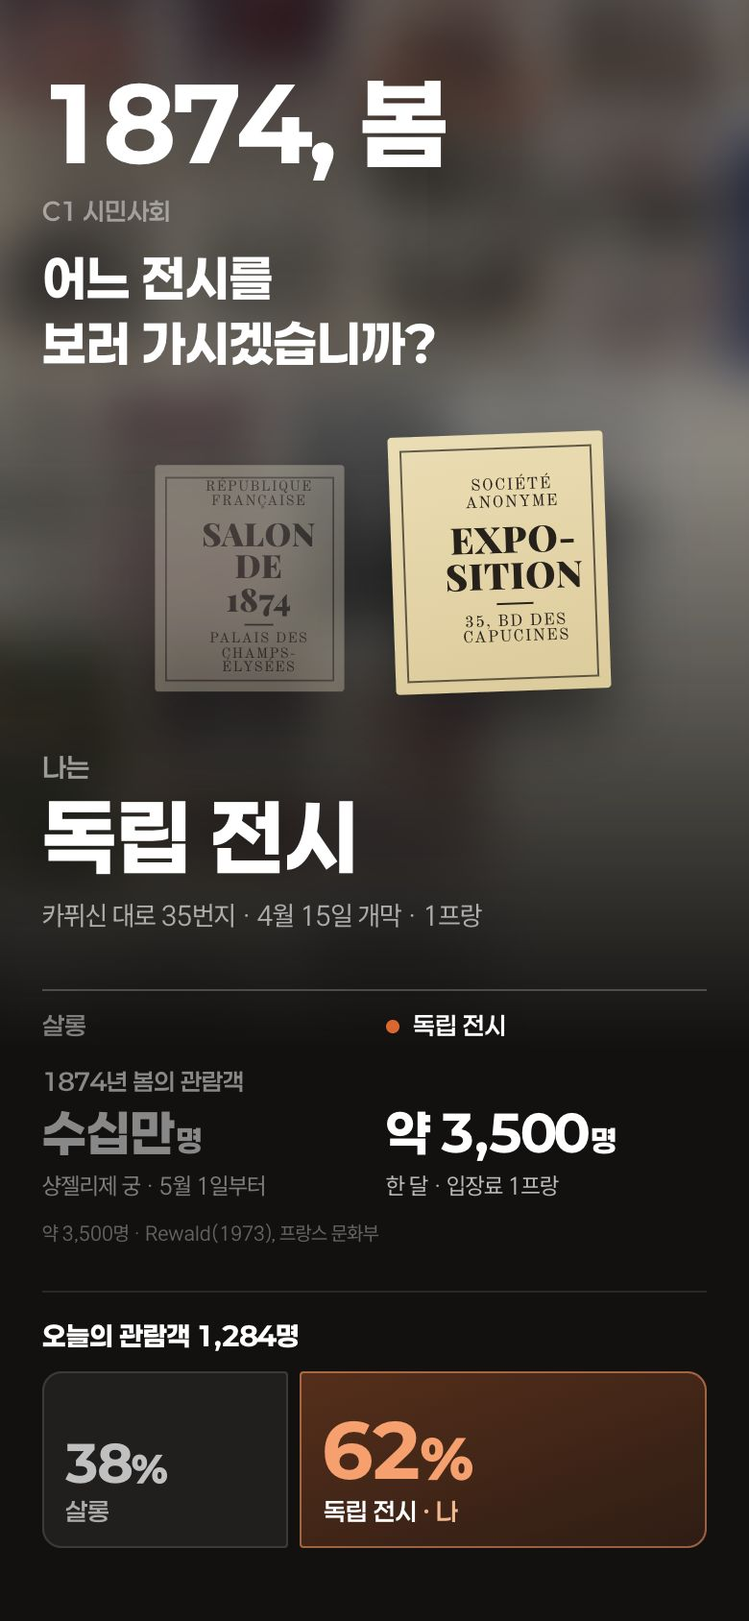
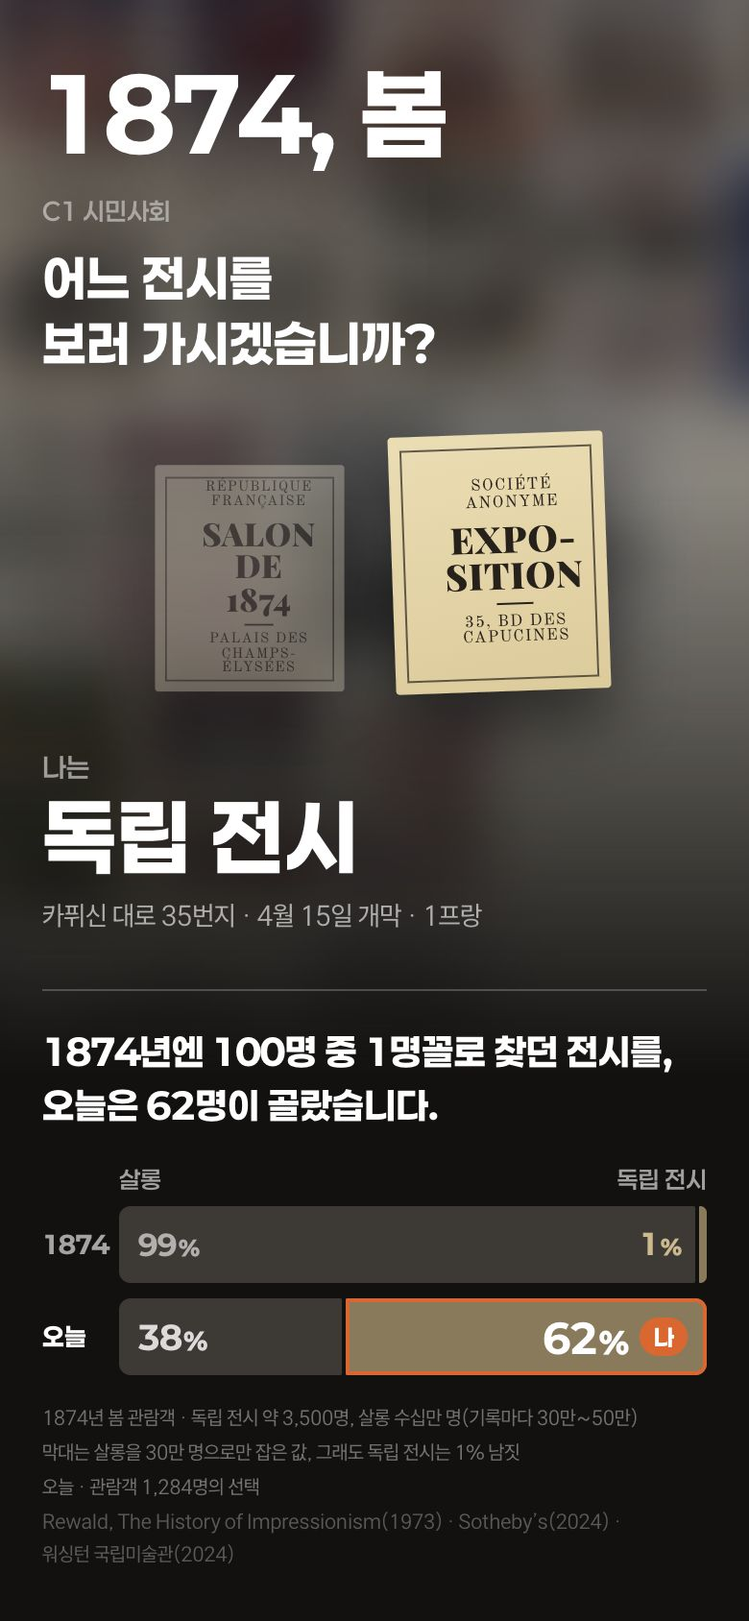
출구 시안 E 큰 선택 비교를 같은 눈금의 가로 막대로: 결론 한 문장(데이터로 만듦, 살롱을 골랐으면 그쪽에서 담담하게) → 1874 · 오늘 두 줄(왼쪽 살롱 · 오른쪽 독립 전시, 순서 같음) → 근거 작은 글자. 내 쪽은 오늘 막대에만 주황 테 + 나, 숫자는 처음부터 최종값
1874 막대는 살롱을 가장 적은 기록 30만 명으로 잡은 값(독립 전시 약 3,500명 → 1% 남짓), 살롱은 기록마다 30만~50만이라 '수십만 명'으로만 적음 · 출처 Rewald(1973) · Sotheby's(2024) · 워싱턴 국립미술관(2024)
C4 는 1874년 수치가 없어 오늘 막대 한 줄만(1874년 4월 사실 두 줄은 아래 그대로) / 공유 이미지도 같은 짜임 / 소개 페이지 '나의 1874' 이미지 다시 찍고 설명 한 줄 고침

diff --git a/design/experience-v2/proto/exit-e.js b/design/experience-v2/proto/exit-e.js
@@ -1,10 +1,12 @@
 // 출구 시안 E — 큰 선택과 작은 선택(라이프 이즈 스트레인지의 에피소드 끝 통계처럼)
 //   큰 선택(가치 판단) 둘 — C1 "어느 전시를 보러 가시겠습니까?"(살롱 / 화가들의 전시) · C4 "사람을 남긴다면, 그림입니까 사진입니까?"(그림으로 / 사진으로) — 를 한 화면씩.
-//     질문 → 그 방의 물건(포스터 둘 · 고른 쪽 얼굴 다섯) → 내 선택 → 같은 칸(선택지)에 맞춘 두 줄: 1874년(출처 있는 사실) · 오늘의 관람객(두 쪽의 폭 = 비율, 내 쪽만 주황). 옳고 그름은 말하지 않는다.
+//     질문 → 그 방의 물건(포스터 둘 · 고른 쪽 얼굴 다섯) → 내 선택 → 결론 한 문장 → 같은 눈금 막대(1874 · 오늘, 내 쪽은 오늘 막대에만 주황 테 + 나) → 근거. 옳고 그름은 말하지 않는다.
 //   출구는 늘 멈춘 화면 — 불 켜기 · 미끄러지는 큰 글자 · 차례로 드러나기 · 숫자 세기 · 벌어지는 막대 · 시차 없이, 모든 내용이 처음부터 그 자리에 있다.
 //   작은 선택(C0 메달 · C2 행선지)은 흰 쟁반 "그 밖에 고른 것"으로 작게. → 가져가는 것 다섯 → 저장·공유(1080×1920, 같은 위계, 위·아래 250px 비움).
 //   "나와 같은 길 %" · 조합 통계는 쓰지 않는다. 선택 · 예시 비율 · localStorage 읽기는 exit-common.js. 오늘의 비율은 점 대신 두 쪽의 폭(= 비율)과 큰 숫자.
-//   1874년 살롱 관람객 수는 출처가 없어 "수십만"으로만 적는다(화가들의 전시 약 3,500명은 Rewald 1973 · 프랑스 문화부).
+//   비교는 같은 눈금의 가로 막대 두 줄(왼쪽 살롱 · 오른쪽 독립 전시, 두 줄 순서 같음): 1874 · 오늘. 위에 결론 한 문장(데이터로 만듦), 아래 근거 작은 글자.
+//     1874 관람객 — 독립 전시 약 3,500명(Rewald 1973, p.318 · Sotheby's 2024 등 같은 값). 살롱은 기록마다 30만(유료 입장) · 40만 · 50만으로 달라
+//     "수십만 명"으로만 적고, 막대는 가장 적은 30만 명으로 잡아 그린다(그래도 독립 전시는 1% 남짓). C4 는 1874년 수치가 없어 오늘 막대 한 줄만.
 import { clearChoices } from './js/proto-common.js';
 import { STATIONS, C1, C4, C4_FACES, VISITORS, POINT, anyReal, fmt, stampLine, posterHTML, setupShare, fontsReady, loadImg, cover, drawArt } from './exit-common.js';
 import { mountKeep } from './exit-keep.js';
@@ -15,16 +17,35 @@ const ex = (s) => (anyReal && !s.real ? ' · 예시' : '');
 const exTag = (s) => (anyReal && !s.real ? '<span class="ex">예시</span>' : '');
 
 // ── 큰 선택 두 장의 내용
+// 1874년 봄 관람객 — 막대는 살롱을 가장 적게 잡은 값(30만 명)으로 그린다
+const SALON_LOW = 300000, EXPO_1874 = 3500;
+const p1874 = { viewer: EXPO_1874 / (SALON_LOW + EXPO_1874) * 100 };
+p1874.jury = 100 - p1874.viewer;
 const MAJOR = [
   { el: '#ch1', st: S.c1, cmp: '#cmp1', me: '#me1', sub: '#sub1', room: '#room1', q: '어느 전시를 보러 가시겠습니까?',
     cols: Object.keys(C1).map((k) => ({ k, lab: C1[k].short })),
-    then: { label: '1874년 봄의 관람객', cells: { jury: { v: '수십만<i>명</i>', d: '샹젤리제 궁 · 5월 1일부터' }, viewer: { v: '약 <span class="cnt" data-to="3500">3,500</span><i>명</i>', d: '한 달 · 입장료 1프랑' } },
-      src: '약 3,500명 · Rewald(1973), 프랑스 문화부' } },
+    then: { yr: '1874', p: p1874, lab: { jury: '99%', viewer: '1%' } },
+    head: (me, o) => (me === 'viewer'
+      ? `1874년엔 100명 중 1명꼴로 찾던 전시를,\n오늘은 ${o.pct}명이 골랐습니다.`
+      : `1874년엔 거의 모두가 찾던 살롱을,\n오늘은 100명 중 ${o.pct}명이 골랐습니다.`),
+    basis: [
+      '1874년 봄 관람객 · 독립 전시 약 3,500명, 살롱 수십만 명(기록마다 30만~50만)',
+      '막대는 살롱을 30만 명으로만 잡은 값, 그래도 독립 전시는 1% 남짓',
+    ],
+    src: 'Rewald, The History of Impressionism(1973) · Sotheby’s(2024) · 워싱턴\u00a0국립미술관(2024)' },
   { el: '#ch2', st: S.c4, cmp: '#cmp2', me: '#me2', sub: '#sub2', room: '#room2', q: '사람을 남긴다면, 그림입니까 사진입니까?',
     cols: Object.keys(C4).map((k) => ({ k, lab: C4[k].full })),
-    then: { label: '1874년 4월', lines: ['나다르는 자기 사진관을 화가들에게 전시장으로 내주었다.', '보들레르는 1859년 살롱평에서 사진 산업을 예술의 “가장 치명적인 적”이라 썼다.'],
+    then: null,                                                     // 1874년 수치 없음 — 오늘 한 줄만
+    head: (me, o, other) => `오늘은 100명 중 ${o.pct}명이 나처럼 ${C4[me].full},\n${other.pct}명이 ${C4[other.k].full} 남기겠다고 했습니다.`,
+    basis: [],
+    note: { label: '1874년 4월', lines: ['나다르는 자기 사진관을 화가들에게 전시장으로 내주었다.', '보들레르는 1859년 살롱평에서 사진 산업을 예술의 “가장 치명적인 적”이라 썼다.'],
       src: 'Wikipedia · Nadar · BnF · Wikisource · Baudelaire, Salon de 1859' } },
 ];
+MAJOR.forEach((m) => {
+  const s = m.st; m.headline = m.head(s.me, s.opt, s.others[0]);
+  m.basis.push(`오늘 · 관람객 ${fmt(VISITORS)}명의 선택`);
+  if (m.src) m.basis.push(m.src);
+});
 
 // 그 방의 물건 — C1: 두 포스터(재현), 내 쪽만 또렷이 · C4: 고른 쪽 얼굴 다섯
 $('#obj1').innerHTML = ['jury', 'viewer'].map((k) => posterHTML(k === 'viewer', S.c1.me === k ? 'me' : '')).join('');
@@ -37,15 +58,25 @@ MAJOR.forEach((m) => {
   $(m.room).innerHTML = s.room + exTag(s);
   $(m.me).textContent = s.choice;
   $(m.sub).textContent = s.sub;
-  const cols = `<div class="xe-cols">${m.cols.map((c) => `<span class="${c.k === s.me ? 'me' : ''}">${c.lab}</span>`).join('')}</div>`;
-  const then = m.then.cells
-    ? `<div class="xe-cells">${m.cols.map((c) => `<div class="xe-cell${c.k === s.me ? ' me' : ''}"><div class="v">${m.then.cells[c.k].v}</div><div class="d">${m.then.cells[c.k].d}</div></div>`).join('')}</div>`
-    : m.then.lines.map((l) => `<p class="xe-then-line">${l}</p>`).join('');
-  // 오늘: 두 쪽(선택지 순서 = 위 칸 순서), 폭 = 비율
-  const now = `<div class="xe-bar">${s.opts.map((o) => `<div class="xb${o.k === s.me ? ' me' : ''}" style="--p:${o.pct}"><b class="xe-pct"><span class="cnt" data-to="${o.pct}">${o.pct}</span><i>%</i></b><small>${m.cols.find((c) => c.k === o.k).lab}</small></div>`).join('')}</div>`;
-  $(m.cmp).innerHTML = `<div class="xe-then rv">${cols}<div class="xe-row"><div class="xe-rl">${m.then.label}</div>${then}<div class="xe-src">${m.then.src}</div></div></div>`
-    + `<div class="xe-row now rv"><div class="xe-rl"><b>오늘의 관람객 <span class="cnt" data-to="${VISITORS}">${fmt(VISITORS)}</span>명</b></div>${now}</div>`;
-  m.nowRow = $(`${m.el} .xe-row.now`);
+  // 같은 눈금의 가로 막대 — 왼쪽 · 오른쪽 순서는 선택지 순서 그대로(두 줄 모두). 내 쪽 표시는 오늘 막대에만
+  const [L, R] = m.cols;
+  const pctTxt = (t) => `<span>${t.replace(/%$/, '<i>%</i>')}</span>`;
+  const seg = (c, p, lab, me) => `<span class="sg ${c === L ? 'l' : 'r'}${me ? ' me' : ''}" style="--p:${p}">${lab ? `<b>${pctTxt(lab)}${me ? '<em>나</em>' : ''}</b>` : ''}</span>`;
+  const row = (yr, segs, cls, aria, tail = '') => `<div class="xe-br ${cls}" role="img" aria-label="${aria}"><span class="yr">${yr}</span><div class="trk">${segs}${tail}</div></div>`;
+  const today = s.opts.map((o) => ({ c: m.cols.find((c) => c.k === o.k), o }));
+  let rows = '';
+  if (m.then) {
+    const t = m.then;
+    // 1874: 오른쪽 몫은 글자가 들어가지 않을 만큼 가늘어, 그 숫자는 가는 띠 바로 왼쪽에 오른쪽 색으로
+    rows += row(t.yr, `${seg(L, t.p[L.k], t.lab[L.k], false)}${seg(R, t.p[R.k], '', false)}`, 'then',
+      `${t.yr}년: ${L.lab} ${t.lab[L.k]}, ${R.lab} ${t.lab[R.k]}`, `<b class="tail">${pctTxt(t.lab[R.k])}</b>`);
+  }
+  rows += row('오늘', today.map(({ c, o }) => seg(c, o.pct, `${o.pct}%`, o.k === s.me)).join(''), 'now' + (m.then ? '' : ' solo'),
+    `오늘: ${today.map(({ c, o }) => `${c.lab} ${o.pct}%${o.k === s.me ? '(나)' : ''}`).join(', ')}`);
+  const note = m.note ? `<div class="xe-note"><div class="xe-rl">${m.note.label}</div>${m.note.lines.map((l) => `<p class="xe-then-line">${l}</p>`).join('')}<div class="xe-src">${m.note.src}</div></div>` : '';
+  $(m.cmp).innerHTML = `<p class="xe-hl">${m.headline.replace('\n', '<br>')}</p>`
+    + `<div class="xe-bars${m.then ? '' : ' solo'}"><div class="xe-heads"><span>${L.lab}</span><span>${R.lab}</span></div>${rows}</div>`
+    + `<ul class="xe-basis">${m.basis.map((b) => `<li>${b}</li>`).join('')}</ul>${note}`;
 });
 
 // ── 작은 선택 — 흰 쟁반의 작은 카드 둘
@@ -78,38 +109,43 @@ async function drawMajor(g, m, i, x, y, W) {
   g.textAlign = 'left';
   g.fillStyle = 'rgba(255,255,255,.5)'; g.font = `600 24px ${D}`; g.fillText(s.room + ex(s), x, y + 24);
   g.fillStyle = '#fff'; g.font = `800 38px ${D}`; g.fillText(m.q, x, y + 80);
-  g.fillStyle = 'rgba(255,255,255,.55)'; g.font = `600 24px ${D}`; g.fillText('나는', x, y + 138);
-  g.fillStyle = '#fff'; g.font = `800 74px ${D}`; g.fillText(s.choice, x - 3, y + 214);
-  let cy = y + 248;
+  g.fillStyle = 'rgba(255,255,255,.55)'; g.font = `600 24px ${D}`; g.fillText('나는', x, y + 132);
+  g.fillStyle = '#fff'; g.font = `800 74px ${D}`; g.fillText(s.choice, x - 3, y + 204);
+  let cy = y + 230;
   g.fillStyle = 'rgba(255,255,255,.22)'; g.fillRect(x, cy, W, 2);
-  const gap = 24, colW = (W - gap) / 2;
-  cy += 40; g.font = `600 26px ${D}`;
-  m.cols.forEach((c, j) => { const cx = x + j * (colW + gap), me = c.k === s.me; if (me) { g.fillStyle = POINT; g.beginPath(); g.arc(cx + 7, cy - 9, 7, 0, 6.2832); g.fill(); } g.fillStyle = me ? '#fff' : 'rgba(255,255,255,.45)'; g.fillText(c.lab, cx + (me ? 24 : 0), cy); });
-  cy += 38; g.fillStyle = 'rgba(255,255,255,.5)'; g.font = `600 22px ${D}`; g.fillText(m.then.label, x, cy);
-  if (m.then.cells) {
-    cy += 50;
-    m.cols.forEach((c, j) => { const cx = x + j * (colW + gap), me = c.k === s.me, cell = m.then.cells[c.k];
-      g.fillStyle = me ? '#fff' : 'rgba(255,255,255,.5)'; g.font = `800 46px ${D}`; g.fillText(cell.v.replace(/<[^>]+>/g, ' ').replace(/ +/g, ' ').replace(/ +명/, '명').replace('수십만 명', '수십만'), cx, cy);
-      g.fillStyle = me ? 'rgba(255,255,255,.7)' : 'rgba(255,255,255,.45)'; g.font = `500 22px ${B}`; g.fillText(cell.d, cx, cy + 34); });
-    cy += 34;
-  } else {
-    g.font = `500 26px ${B}`; g.fillStyle = 'rgba(255,255,255,.86)';
-    wrapKo(g, m.then.lines[0], W).forEach((ln) => { cy += 40; g.fillText(ln, x, cy); });
-  }
-  // 오늘
-  cy += 48; g.fillStyle = '#fff'; g.font = `800 24px ${D}`; g.fillText(`오늘의 관람객 ${fmt(VISITORS)}명`, x, cy);
-  // 두 쪽 — 폭 = 비율(점 없음)
-  const bh = 92, by = cy + 22, g2 = 10; let bx = x;
-  s.opts.forEach((o, j) => {
-    const me = o.k === s.me, w = (W - g2) * o.pct / 100;
-    g.fillStyle = me ? 'rgba(217,103,47,.30)' : 'rgba(255,255,255,.07)'; rrect(g, bx, by, w, bh, 12); g.fill();
-    g.strokeStyle = me ? 'rgba(240,150,100,.7)' : 'rgba(255,255,255,.16)'; g.lineWidth = 2; rrect(g, bx + 1, by + 1, w - 2, bh - 2, 11); g.stroke();
-    g.fillStyle = me ? '#F5A06E' : 'rgba(255,255,255,.72)'; g.font = `800 ${me ? 52 : 38}px ${D}`; g.fillText(`${o.pct}%`, bx + 20, by + bh - 22);
-    const lab = m.cols.find((c) => c.k === o.k).lab + (me ? ' · 나' : ''); g.font = `600 22px ${D}`; const lw = g.measureText(lab).width;
-    if (lw < w - 160) { g.fillStyle = me ? '#fff' : 'rgba(255,255,255,.6)'; g.textAlign = 'right'; g.fillText(lab, bx + w - 18, by + bh - 24); g.textAlign = 'left'; }
-    bx += w + g2;
-  });
-  return cy + 22 + bh;
+  // 결론 한 문장
+  g.fillStyle = '#fff'; g.font = `800 32px ${D}`;
+  m.headline.split('\n').forEach((part) => wrapKo(g, part, W).forEach((ln) => { cy += 46; g.fillText(ln, x, cy); }));
+  // 같은 눈금의 가로 막대 — 화면과 같은 짜임(왼쪽 짙은 회색 · 오른쪽 놋쇠빛, 내 쪽은 오늘 막대에만 주황 테 + 나)
+  const XL = '#3D3934', XR = '#8A7A5C', yw = 92, tx0 = x + yw, tw = W - yw, bh = 56, g2 = 4;
+  cy += 46; g.font = `600 23px ${D}`; g.fillStyle = 'rgba(255,255,255,.6)';
+  const [Lc, Rc] = m.cols;
+  g.fillText(Lc.lab, tx0, cy); g.textAlign = 'right'; g.fillText(Rc.lab, x + W, cy); g.textAlign = 'left';
+  const bar = (yr, parts, then) => {
+    const by = cy + 12;
+    g.fillStyle = then ? 'rgba(255,255,255,.62)' : '#fff'; g.font = `700 25px ${D}`; g.fillText(yr, x, by + bh / 2 + 9);
+    let bx = tx0;
+    parts.forEach((p, j) => {
+      const w = Math.max(5, (tw - g2) * p.p / 100);
+      g.fillStyle = j ? XR : XL; rrect(g, bx, by, w, bh, Math.min(10, w / 2)); g.fill();
+      if (p.me) { g.strokeStyle = POINT; g.lineWidth = 4; rrect(g, bx + 2, by + 2, w - 4, bh - 4, 8); g.stroke(); }
+      if (p.lab) {
+        g.font = `800 ${p.me ? 38 : then ? 28 : 32}px ${D}`; g.fillStyle = p.me ? '#fff' : then ? 'rgba(255,255,255,.6)' : 'rgba(255,255,255,.82)';
+        const tw2 = g.measureText(p.lab).width, tagW = p.me ? 54 : 0, tx = j ? bx + w - 20 - tw2 - tagW : bx + 20;
+        g.fillText(p.lab, tx, by + bh / 2 + 13);
+        if (p.me) { g.fillStyle = POINT; rrect(g, tx + tw2 + 10, by + bh / 2 - 17, 44, 34, 17); g.fill(); g.fillStyle = '#fff'; g.font = `800 22px ${D}`; g.textAlign = 'center'; g.fillText('나', tx + tw2 + 32, by + bh / 2 + 8); g.textAlign = 'left'; }
+      }
+      if (p.tail) { g.font = `800 28px ${D}`; g.fillStyle = '#CDB98F'; g.textAlign = 'right'; g.fillText(p.tail, x + W - 26, by + bh / 2 + 10); g.textAlign = 'left'; }
+      bx += w + g2;
+    });
+    cy = by + bh;
+  };
+  if (m.then) bar(m.then.yr, [{ p: m.then.p[Lc.k], lab: m.then.lab[Lc.k] }, { p: m.then.p[Rc.k], tail: m.then.lab[Rc.k] }], true);
+  bar('오늘', s.opts.map((o) => ({ p: o.pct, lab: `${o.pct}%`, me: o.k === s.me })), false);
+  // 근거 — 작은 글자(오늘 관람객 수는 맨 아래 한 줄에 있으니 뺀다)
+  g.font = `500 20px ${B}`; g.fillStyle = 'rgba(255,255,255,.42)'; cy += 4;
+  m.basis.filter((ln) => !ln.startsWith('오늘 ·')).forEach((ln) => wrapKo(g, ln, W).forEach((l2) => { cy += 28; g.fillText(l2, x, cy); }));
+  return cy;
 }
 async function renderShare() {
   const Wd = 1080, Hd = 1920, c = document.createElement('canvas'); c.width = Wd; c.height = Hd;

diff --git a/design/experience-v2/proto/exit-e.css b/design/experience-v2/proto/exit-e.css
@@ -38,37 +38,17 @@ body.xe h1, body.xe h2, body.xe h3, body.xe .btn { letter-spacing: 0; }
 .xe-me-sub { margin-top: 8px; font-size: 15px; color: rgba(255,255,255,.62); }
 .xe-me-sub .ex { margin-left: 6px; font-size: 12px; color: rgba(255,255,255,.4); }
 
-/* 그때 ↔ 오늘 — 같은 칸(선택지)에 맞춘 두 줄 */
-.xe-cmp { flex: none; margin-top: 30px; }
-.xe-then { border-top: 1px solid rgba(255,255,255,.22); }
-.xe-cols { display: grid; grid-template-columns: 1fr 1fr; gap: 12px; padding: 10px 0 0; font-family: var(--display); font-weight: 600; font-size: 13px; color: rgba(255,255,255,.45); }
-.xe-cols span { display: flex; align-items: center; gap: 7px; white-space: nowrap; overflow: hidden; text-overflow: ellipsis; }
-.xe-cols .me { color: #fff; }
-.xe-cols .me::before { content: ''; flex: none; width: 7px; height: 7px; border-radius: 50%; background: var(--point); }
-.xe-row { padding: 14px 0 0; }
-.xe-rl { display: flex; align-items: baseline; gap: 8px; font-family: var(--display); font-weight: 600; font-size: 12.5px; color: rgba(255,255,255,.5); }
-.xe-rl b { font-weight: 800; font-size: 14px; color: #fff; }
-.xe-rl small { margin-left: auto; font-family: var(--body); font-weight: 500; font-size: 12px; color: rgba(255,255,255,.4); }
-.xe-cells { display: grid; grid-template-columns: 1fr 1fr; gap: 12px; margin-top: 6px; }
-.xe-cell { position: relative; }
-.xe-cell .v { font-family: var(--display); font-weight: 800; font-size: 26px; line-height: 1.1; color: rgba(255,255,255,.5); }
-.xe-cell .v i { font-style: normal; font-size: .6em; margin-left: 1px; }
-.xe-cell .d { margin-top: 4px; font-size: 13px; line-height: 1.4; color: rgba(255,255,255,.45); }
-.xe-cell.me .v { color: #fff; }
-.xe-cell.me .d { color: rgba(255,255,255,.7); }
+/* 1874 ↔ 오늘 — 결론 한 문장 → 같은 눈금의 가로 막대(왼쪽 · 오른쪽 순서는 두 줄 모두 같음) → 근거 작은 글자. 막대 · 숫자는 처음부터 최종값(exit-e-fx.css) */
+.xe-cmp { flex: none; margin-top: 30px; padding-top: 18px; border-top: 1px solid rgba(255,255,255,.22); }
+.xe-hl { margin: 0; font-family: var(--display); font-weight: 800; font-size: 19px; line-height: 1.45; color: #fff; word-break: keep-all; }
+.xe-basis { list-style: none; margin: 14px 0 0; padding: 0; font-size: 11px; line-height: 1.55; color: rgba(255,255,255,.4); word-break: keep-all; }
+.xe-basis li + li { margin-top: 1px; }
+.xe-basis li:last-child:not(:first-child) { color: rgba(255,255,255,.3); }
+.xe-note { margin-top: 22px; padding-top: 14px; border-top: 1px solid rgba(255,255,255,.1); }
+.xe-rl { font-family: var(--display); font-weight: 600; font-size: 12.5px; color: rgba(255,255,255,.5); }
 .xe-then-line { margin: 6px 0 0; font-size: 15px; line-height: 1.55; color: rgba(255,255,255,.86); }
 .xe-then-line + .xe-then-line { color: rgba(255,255,255,.6); }
 .xe-src { margin-top: 8px; font-size: 11px; line-height: 1.4; color: rgba(255,255,255,.34); }
-
-/* 오늘 줄 — 비율 */
-.xe-row.now { margin-top: 22px; border-top: 1px solid rgba(255,255,255,.1); }
-.xe-now { position: relative; margin-top: 6px; height: 96px; }
-.xe-now canvas { position: absolute; inset: 0 0 34px; width: 100%; height: calc(100% - 34px); display: block; }
-.xe-now .xe-cells { position: absolute; left: 0; right: 0; bottom: 0; margin: 0; pointer-events: none; }
-.xe-pct { font-family: var(--display); font-weight: 600; font-size: 17px; line-height: 1; color: rgba(255,255,255,.5); font-variant-numeric: tabular-nums; }
-.xe-pct i { font-style: normal; font-size: .7em; }
-.xe-pct.me { font-weight: 800; font-size: 30px; color: var(--point); }
-.xe-pct.me span { margin-left: 6px; font-size: 13px; font-weight: 600; color: #fff; }
 
 /* ── 작은 선택 · 가져가는 것 — 흰 쟁반(작게) */
 .xe-end { position: relative; padding-top: 28px; display: flex; flex-direction: column; }
@@ -94,6 +74,5 @@ body.xe h1, body.xe h2, body.xe h3, body.xe .btn { letter-spacing: 0; }
   .xe-q { font-size: 22px; }
   .xe-obj { margin-top: 20px; } .xe-obj.posters .x-poster { --s: 92px; } .xe-obj.faces .fc { max-width: 52px; }
   .xe-me { margin-top: 22px; } .xe-me-v { font-size: 36px; }
-  .xe-cmp { margin-top: 22px; }
-  .xe-cell .v { font-size: 22px; }
+  .xe-cmp { margin-top: 22px; } .xe-hl { font-size: 17.5px; }
 }

diff --git a/design/experience-v2/proto/exit-e-fx.css b/design/experience-v2/proto/exit-e-fx.css
@@ -1,4 +1,4 @@
-/* 출구 E 꾸밈 — 큰 선택마다 그 방 물건의 흐린 바탕 · 큰 글자 · 1874 ↔ 오늘의 두 쪽(폭 = 비율, 점 없음).
+/* 출구 E 꾸밈 — 큰 선택마다 그 방 물건의 흐린 바탕 · 큰 글자 · 1874 ↔ 오늘의 같은 눈금 가로 막대.
    출구는 늘 멈춘 화면: 불 켜기 · 미끄러져 들어오는 글자 · 다가오는 바탕 · 벌어지는 막대 · 지나가는 빛 · 시차 · 내려앉는 물건 없이 처음부터 다 보인 모습 그대로 */
 
 /* ── 큰 선택: 그 방 물건의 흐린 바탕 + 큰 글자(제자리) */
@@ -12,16 +12,25 @@
 .xe-big { position: relative; margin: 6px 0 14px -2px; font-family: var(--display); font-weight: 800; font-size: clamp(44px, 13.5vw, 58px); line-height: 1.02; white-space: nowrap; color: #fff; pointer-events: none; }
 .xe-big span { display: inline-block; text-shadow: 0 10px 40px rgba(0,0,0,.6); }
 
-/* ── 1874 ↔ 오늘: 두 쪽, 폭 = 비율 */
-.xe-bar { display: flex; gap: 6px; margin-top: 10px; height: 92px; }
-.xb { position: relative; flex: 0 0 calc(var(--p) * 1% - 3px); min-width: 0; display: flex; flex-direction: column; justify-content: flex-end; gap: 4px; padding: 10px 12px 11px; overflow: hidden;
-  background: rgba(255,255,255,.06); box-shadow: inset 0 0 0 1px rgba(255,255,255,.12); }
-.xb:first-child { border-radius: 10px 2px 2px 10px; } .xb:last-child { border-radius: 2px 10px 10px 2px; }
-.xb.me { background: linear-gradient(160deg, rgba(217,103,47,.34), rgba(217,103,47,.14)); box-shadow: inset 0 0 0 1px rgba(240,150,100,.55); }
-.xb small { font-family: var(--display); font-weight: 600; font-size: 13px; color: rgba(255,255,255,.62); white-space: nowrap; overflow: hidden; text-overflow: ellipsis; }
-.xb.me small { color: #fff; }
-.xb.me small::after { content: ' · 나'; color: #F0B98F; }
-.xb .xe-pct { opacity: 1; font-size: 26px; font-weight: 800; color: rgba(255,255,255,.72); font-variant-numeric: tabular-nums; }
-.xb.me .xe-pct { font-size: 38px; color: #F5A06E; }
-.xe-row.now .xe-rl small { display: none; }
-.xe-cell .v .cnt { font-variant-numeric: tabular-nums; }
+/* ── 1874 ↔ 오늘: 같은 눈금의 가로 막대. 왼쪽 선택지 = 짙은 회색, 오른쪽 = 놋쇠빛(두 줄 같은 색). 내 쪽은 오늘 막대에만 주황 테 + '나' */
+.xe-bars { --yr: 40px; margin-top: 18px; }
+.xe-heads { display: flex; justify-content: space-between; gap: 12px; padding-left: var(--yr); font-family: var(--display); font-weight: 600; font-size: 12.5px; color: rgba(255,255,255,.6); }
+.xe-heads span { white-space: nowrap; }
+.xe-bars { --xl: #3D3934; --xr: #8A7A5C; }
+.xe-br { display: grid; grid-template-columns: var(--yr) 1fr; align-items: center; margin-top: 8px; }
+.xe-heads + .xe-br { margin-top: 7px; }
+.xe-br .yr { font-family: var(--display); font-weight: 700; font-size: 13px; color: rgba(255,255,255,.62); font-variant-numeric: tabular-nums; }
+.xe-br.now .yr { color: #fff; }
+.trk { position: relative; display: flex; gap: 2px; height: 40px; }
+.sg { flex: 0 0 calc((100% - 2px) * var(--p) / 100); min-width: 3px; display: flex; align-items: center; padding: 0 10px; overflow: hidden; white-space: nowrap; background: var(--xl); }
+.sg.l { border-radius: 6px 1px 1px 6px; justify-content: flex-start; }
+.sg.r { border-radius: 1px 6px 6px 1px; justify-content: flex-end; background: var(--xr); }
+.sg b, .trk .tail { display: inline-flex; align-items: center; gap: 6px; font-family: var(--display); font-weight: 800; font-size: 17px; line-height: 1; color: rgba(255,255,255,.82); font-variant-numeric: tabular-nums; }
+.sg b i, .trk .tail i { font-style: normal; font-size: .72em; margin-left: 1px; }
+.sg b span, .trk .tail span { white-space: nowrap; }
+.xe-br.then .sg b { font-size: 15px; color: rgba(255,255,255,.6); }
+.xe-br.then .sg.r { padding: 0; }
+.trk .tail { position: absolute; right: 13px; top: 50%; transform: translateY(-50%); font-size: 15px; color: #CDB98F; }
+.sg.me { box-shadow: inset 0 0 0 2px var(--point); }
+.sg.me b { font-size: 21px; color: #fff; }
+.sg.me em { font-style: normal; display: inline-grid; place-items: center; height: 20px; padding: 0 7px; border-radius: 10px; background: var(--point); font-family: var(--display); font-weight: 800; font-size: 12px; color: #fff; }

diff --git a/design/experience-v2/proto/exit-e.html b/design/experience-v2/proto/exit-e.html
@@ -17,7 +17,7 @@
 <body class="xe">
 
 <!-- 출구 시안 E — 큰 선택(가치 판단)과 작은 선택의 위계.
-     큰 선택 둘(C1 · C4)은 한 화면씩: 질문 → 그 방의 물건(포스터 둘 / 고른 쪽 얼굴들) → 내 선택 → 같은 칸(선택지)에 맞춘 두 줄 "1874년"(출처 있는 사실) · "오늘의 관람객"(두 쪽이 비율대로 벌어짐, 내 쪽만 주황).
+     큰 선택 둘(C1 · C4)은 한 화면씩: 질문 → 그 방의 물건(포스터 둘 / 고른 쪽 얼굴들) → 내 선택 → 결론 한 문장 + 같은 눈금의 가로 막대 "1874"(출처 있는 수치, C1 만) · "오늘"(내 쪽만 주황 테 + 나) + 근거 작은 글자.
      그다음 흰 쟁반 "그 밖에 고른 것"(C0 메달 · C2 행선지) → 가져가는 것 다섯 → 저장·공유. 평범한 세로 스크롤, 모든 내용이 처음부터 그 자리에 있다(스냅 · 자동 넘김 · 드러나기 효과 없음) -->
 <main class="xe-deck" id="deck">
   <div class="vsw-row"><nav class="vsw" aria-label="출구 시안"><span class="vsw-lb">출구 시안</span><a href="exit.html">A</a><a href="exit-b.html">B</a><a href="exit-c.html">C</a><a href="exit-d.html">D</a><a href="exit-e.html" aria-current="page">E</a></nav></div>

diff --git a/design/experience-v2.html b/design/experience-v2.html
@@ -261,7 +261,7 @@ a{color:inherit}
     <div class="sec-hd rv">
       <p class="kick">출구</p>
       <h2>나의 1874</h2>
-      <p>두 번의 큰 선택을<br>1874년과 오늘의 관람객 옆에 나란히 놓습니다.</p>
+      <p>두 번의 큰 선택을 오늘의 관람객 옆에,<br>전시 선택은 1874년의 관람객 옆에도 놓습니다.</p>
     </div>
     <div class="exit">
       <div class="phone rv"><img src="experience-v2/pitch/exit-1874.jpg" alt="출구 — 1874년 봄, 어느 전시를 보러 가시겠습니까. 나의 선택과 1874년, 오늘의 비율" width="780" height="1688" loading="lazy"></div>
